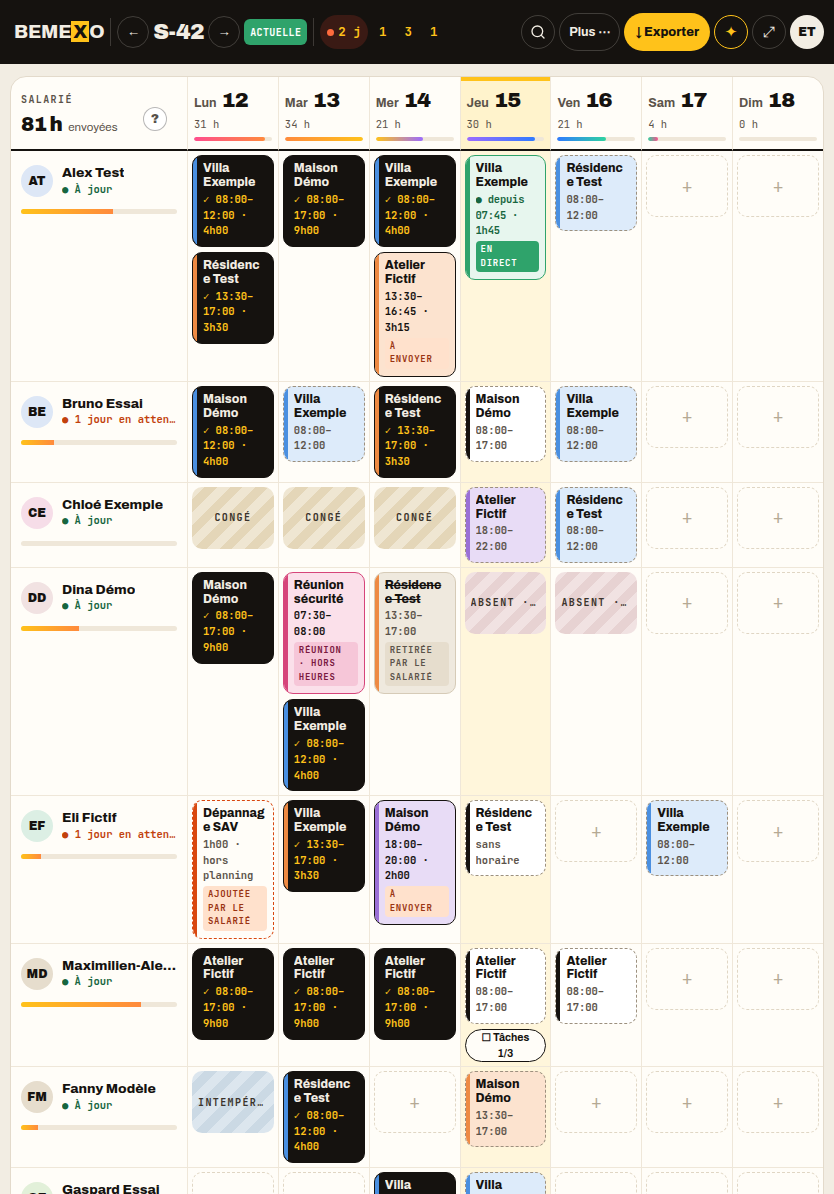
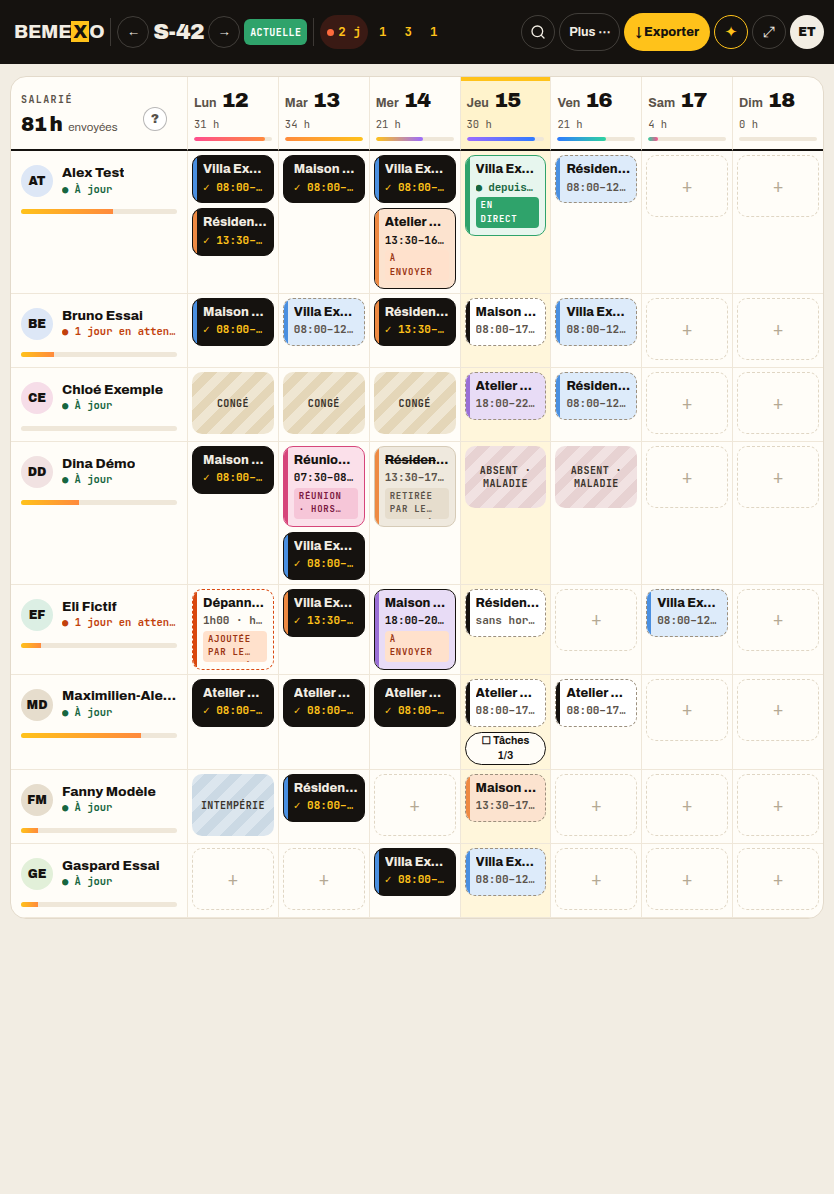
Planning 2a, tablette (768–1 023 px) : plus aucun mot coupé en plein milieu
Comme à 1 024 px : titre et horaire des cartes sur une ligne coupée par « … », étiquettes sur deux
lignes au plus (coupées entre deux mots), libellés d'absence à la ligne entre deux mots seulement.
Nouveau contrôle « aucun mot coupé en plein milieu à 834 » (planning-2b-controles 62/62) ;
2a-tablette-834.png refaite ; planning-2a-controles 39/39.

Claude-Session: https://claude.ai/code/session_01UjXHEzdjb9t6bteo8SrVhu

diff --git a/components/design/bureau/planning-v2.css b/components/design/bureau/planning-v2.css
@@ -491,10 +491,11 @@ button.dzp-b-actuelle { background: transparent; border: 1px solid #FFC21A; colo
   .dzp-jour__h { margin-left: 0; flex-basis: 100%; }
   .dzp-td { padding: 4px; }
   .dzp-carte { padding: 6px 6px 7px 10px; }
-  .dzp-carte__titre, .dzp-carte__heure { white-space: normal; overflow-wrap: break-word; hyphens: auto; }
-  .dzp-carte__titre { font-size: 12px; }
-  .dzp-carte__heure { font-size: 10.5px; }
-  .dzp-carte__tag { white-space: normal; }
+  /* Comme à 1 024 px : titre et horaire sur UNE ligne coupée par « … » ; étiquettes sur deux lignes au plus, coupées entre deux mots seulement. */
+  .dzp-carte__tag { white-space: normal; overflow-wrap: normal; word-break: normal; display: -webkit-box; -webkit-box-orient: vertical; -webkit-line-clamp: 2; line-clamp: 2; }
+  /* Absences : le libellé passe à la ligne entre deux mots (« ABSENT · / MALADIE »), jamais au milieu d'un mot ; lettres moins espacées pour que « INTEMPÉRIE » tienne. */
+  .dzp-absence { padding: 6px 4px; }
+  .dzp-absence b { white-space: normal; overflow: visible; text-overflow: clip; letter-spacing: .04em; line-height: 1.3; }
 }
 
 /* ── Menu ☰ du téléphone, ajouts de la planche 2b : semaine, recherche, chiffres (tuiles du 1a), pièces jointes ── */

diff --git a/docs/REPRISE.md b/docs/REPRISE.md
@@ -40,4 +40,4 @@
 - **Bureau LOT 2 « Heures et paie » (17 oct. 2026, PR brouillon `claude/bureau-lot2-heures-paie`, rien de déployé, aucune migration)** : feuille d'heures, corrections tracées, renvoi, relance, export paie (menu, alerte avant verrou), clôture du mois, congés, onglets de la fiche, en variante v2 derrière `?ui=2` (aperçus et localhost seulement ; `lib/use-bureau-ui2.ts`, `BUREAU_UI2_PAR_DEFAUT = false`, `?ui=1` l'éteint). Vues en différé dans `components/design/bureau/` (`feuille-heures-v2`, `exporter-v2`, `verrou-v2`, `conges-v2`, `onglets-fiche-v2`, `heures-fenetre`, CSS `heures-v2.css`), logique v1 inchangée (props passées par worker-detail, leave-admin-dialog, export-verrou-dialog, admin-planning : 4 petits blocs à relire à la fusion avec le lot 1). Sans drapeau : 25 scripts rejoués identiques à la base. Avec `?ui=2` : 12 copies `ui2b-*` (`node scripts/tests/copies-ui2-bureau.mjs`) aux mêmes comptes que la v1 ; fidélité `node scripts/tests/fidelite-bureau-heures.mjs` 200 ✅ / 0 ❌, 26 images `captures-bureau-heures/`. `/admin` 361 kB (max 363), CSS inchangé, aucune requête de plus. Registre régénéré (`clics.snapshot` 645 gestionnaires / 80 fichiers), `guideForPrompt` bureau SHA `5766f6e9…3198` intact ; textes de guides v2 prêts, ÉTEINTS (`admin-tours-ui2.ts`, `guides-bureau-heures-v2.md`, 2 ancres à poser). **Écarts à la planche (code absent, rien inventé)** : e-mail de relance HP11, « Corriger sans prévenir », choix payé/non payé par trajet, liste des jours en brouillon à la clôture, « Clôturé par », Annuler la clôture, lignes PRÉVUE / EN DIRECT, nom du cabinet ; toasts HP23–27 restent Sonner ; l'onglet « Gérer » garde l'aspect v1 (lot 3). Détail : `baseline-scripts.md` (« Après le lot 2 du BUREAU »).
 - **Retouches d'arbitrage du salarié (17 oct. 2026, 6 points d'Ergun)** : (1) Semaine et Mois ont la bande des 7 jours dans l'en-tête sombre, comme la Journée ; (2) cartes jour blanches avec bordure gauche de 4 px par état (vert envoyé, rouge à envoyer, violet prévu, gris absence, jaune aujourd'hui) et total d'heures en gras à droite (`data-carte`, `vues-v2.css`) ; (3) quatre couleurs vives en plus du noir ; (4) « Historique » sort du menu du compte et devient un lien en bas du Mois (`data-guide="menu.historique"`, guide v2 mis à jour, `avant-3b1.snapshot.json` régénéré une 4e fois : seuls `guides.salarie`, `global`, 55 consignes et `_aide` bougent) ; (5) ✦ jaune FLOTTANT en bas à droite au-dessus de la barre, sur Journée, Semaine et Mois (plus dans l'en-tête) ; (6) le Mois reprend les couleurs d'état. Preuves : fidélité 520 ✅ / 0 ❌, équilibre 73 ✅, coque 31 ✅, `test:registre` 143, `test:guides` 17 ; captures `docs/design-brief/integration/captures-arbitrage/`. Échecs déjà présents sur main sans ces retouches (identiques mesurés) : salarie-lot9 (4), salarie-lot10 (1), requetes-lot29 (2), guides-lot7 (timeout assistant) — tests écrits pour l'ancienne interface, à rejouer via `ui2-copies.mjs`. `/poseur` 280,0 kB pour un plafond de 280 : plus aucune marge.
 - **Planning du BUREAU, planche d'essai 2a (17 oct. 2026, PR brouillon `claude/planning-2a`, rien de déployé, ÉTEINT : `?ui=2`)** : la direction **v2b « Couleur » (#227) est REFUSÉE** et annulée (revert de `8a35ed7`) ; **la 2a est retenue** (référence unique : `docs/design-brief/designer-essai/Essai nouveau design Bemexo.dc.html`, maquette 2a, réglages par défaut), posée sur la base du lot 1. **Étape ORDINATEUR FAITE** : barre noire unique de 64 px (logo, semaine, compteurs masqués à 0, loupe, Clients, Salariés, Sélectionner, Plus ⋯, ↓ Exporter, ✦, ⤢, avatar), tout le reste dans « Plus ⋯ », menu des chiffres (tuiles du 1a) au clic sur un compteur, plein écran (⤢ ou F, Échap), recherche, grille compacte. `admin-planning.tsx` non modifié ; sans drapeau `/admin` identique (7/7). Preuves et écarts : `baseline-scripts.md` (« Après le planning 2a »), `captures-planning-2a/`, `node scripts/tests/planning-2a-controles.mjs` (39/39). **Reste : téléphone et tablette (étape suivante)**, puis guides v2 du planning à revoir (ils parlent encore de la barre de semaine du lot 1, éteints) et la bascule.
-- **Planning 2a, étape TÉLÉPHONE + TABLETTE FAITE (17 oct. 2026, même PR #228, ÉTEINT : `?ui=2`)** : téléphone sous 768 px = planche 2b (en-tête sombre, bascule Jour / Semaine, cartes par salarié, mosaïque), menu ☰ qui reprend TOUT ce que la barre et « Plus ⋯ » offrent (semaine, recherche, chiffres et tuiles, Imprimer, Pièces jointes…), fiche en feuille du bas 2c à 1 024 px et moins (92 %), tablette 834 / 1024 sur la grille de l'ordinateur sans défilement horizontal. `admin-planning.tsx` non modifié ; sans drapeau `/admin` identique (7/7). Preuves et écarts : `baseline-scripts.md` (« Après l'étape TÉLÉPHONE + TABLETTE »), `node scripts/tests/planning-2b-controles.mjs` (61/61), `captures-planning-2a/` (compare-2b-telephone, compare-2c-feuille…). Budgets inchangés (`/admin` 362). **Reste** : guides v2 du planning à revoir (éteints) ; seuil « petit écran » de 1 024 px dans `admin-planning.tsx` (guides, Imprimer) à aligner sur 768 au moment de la bascule ; bascule.
+- **Planning 2a, étape TÉLÉPHONE + TABLETTE FAITE (17 oct. 2026, même PR #228, ÉTEINT : `?ui=2`)** : téléphone sous 768 px = planche 2b (en-tête sombre, bascule Jour / Semaine, cartes par salarié, mosaïque), menu ☰ qui reprend TOUT ce que la barre et « Plus ⋯ » offrent (semaine, recherche, chiffres et tuiles, Imprimer, Pièces jointes…), fiche en feuille du bas 2c à 1 024 px et moins (92 %), tablette 834 / 1024 sur la grille de l'ordinateur sans défilement horizontal. `admin-planning.tsx` non modifié ; sans drapeau `/admin` identique (7/7). Preuves et écarts : `baseline-scripts.md` (« Après l'étape TÉLÉPHONE + TABLETTE »), `node scripts/tests/planning-2b-controles.mjs` (62/62), `captures-planning-2a/` (compare-2b-telephone, compare-2c-feuille…). Budgets inchangés (`/admin` 362). **Reste** : guides v2 du planning à revoir (éteints) ; seuil « petit écran » de 1 024 px dans `admin-planning.tsx` (guides, Imprimer) à aligner sur 768 au moment de la bascule ; bascule.

diff --git a/docs/design-brief/integration/baseline-scripts.md b/docs/design-brief/integration/baseline-scripts.md
@@ -389,7 +389,7 @@ Référence : la planche `Essai nouveau design Bemexo.dc.html`, TOUR 2, 2b « Bu
 
 | Preuve | Résultat |
 |---|---|
-| `node scripts/tests/planning-2b-controles.mjs out docs/design-brief/integration/captures-planning-2a 4432` (`PLANCHE_DIR` = sortie de `--telephone`) | **61 ✅ / 0 ❌** : 390 px sans défilement horizontal, cibles ≥ 44 × 44 px (Jour, menu, feuille ; zone de toucher prolongée par `::after` pour la bascule de 38 px dessinés), en-tête, bande, cartes et couleurs, bascule et mosaïque, colonne → jour, ☰ couvre les 21 fonctions relevées à l'ordinateur (barre, « Plus ⋯ », compte), tuiles, pièces, semaine, recherche, Imprimer, Sélectionner ; feuille 2c à 92 % à 390, 834 et 1 024 px, fermée par ✕, fond et Échap ; panneau latéral intact à 1 440 ; 834 × 1194 et 1024 × 768 sans défilement horizontal |
+| `node scripts/tests/planning-2b-controles.mjs out docs/design-brief/integration/captures-planning-2a 4432` (`PLANCHE_DIR` = sortie de `--telephone`) | **62 ✅ / 0 ❌** : 390 px sans défilement horizontal, cibles ≥ 44 × 44 px (Jour, menu, feuille ; zone de toucher prolongée par `::after` pour la bascule de 38 px dessinés), en-tête, bande, cartes et couleurs, bascule et mosaïque, colonne → jour, ☰ couvre les 21 fonctions relevées à l'ordinateur (barre, « Plus ⋯ », compte), tuiles, pièces, semaine, recherche, Imprimer, Sélectionner ; feuille 2c à 92 % à 390, 834 et 1 024 px, fermée par ✕, fond et Échap ; panneau latéral intact à 1 440 ; 834 × 1194 et 1024 × 768 sans défilement horizontal |
 | `planning-2a-controles.mjs` (ordinateur) | **39 / 39** (le contrôle « 834 » attend désormais la grille) |
 | `bureau-v1-identique.mjs` (sans `?ui=2`, contre le build de la base) | **7 / 7 identiques** |
 | Copies `ui2b-` du planning (`ui2-bureau-copies.mjs`) | `planning-lot2` 86/0, `absences-lot2` 25/0, `versions-lot8` 144/0, `requetes-lot29` 79/2 (les 2 ❌ de la base, partie salarié), `traces-lot3` s'arrête au même endroit que l'original (partie salarié) : **inchangés** |
@@ -405,6 +405,6 @@ Images (`captures-planning-2a/`) : `compare-2b-telephone.png`, `compare-2c-feuil
 - Cartes : teintes d'avatar par hachage de l'identifiant (comme la grille 2a), « N J EN ATTENTE » compté par la règle du code (jours planifiés sans heures envoyées), donc Alex « À JOUR » là où la planche compte son brouillon ; ni étiquettes, ni pièces, ni « CHEF » (la planche n'en montre pas) ; « + Tâche » retiré (comme à l'ordinateur : « Ajouter une tâche à ce créneau » dans la fiche) ; astuce « Copier une case » gardée en tête de liste tant qu'elle n'est pas « Compris ».
 - Mosaïque : colonnes de ~35 px de large (7 colonnes à 390 px) : sous 44 px de large, la colonne entière (en-tête + cases, 64 px de haut chacune) est la cible.
 - Feuille 2c : 92 % (le texte de la planche) et non 88 % (son dessin) ; l'Horaire prévu garde la liste « choisir » (chevron), l'« i » d'aide et « Effacer » ; « Documents (2) » garde le nombre ; « Ajouter une tâche » et « Supprimer » (de la 2a) en plus de Copier / Dupliquer ; les cas « retirée », « brouillon vide », réserve, note du salarié restent dits sous le bloc des heures.
-- Tablette 834 : pas de maquette dans la planche ; grille de l'ordinateur, textes des cartes sur plusieurs lignes au lieu d'être coupés (un mot plus long que la colonne se coupe : « Résidenc / e Test »), charge du jour sous le numéro.
+- Tablette 834 : pas de maquette dans la planche ; grille de l'ordinateur comme à 1 024 px : titre et horaire sur une ligne coupée par « … », étiquettes sur deux lignes au plus (coupées entre deux mots), absences « ABSENT · / MALADIE » à la ligne entre deux mots, charge du jour sous le numéro. Contrôle « aucun mot coupé en plein milieu à 834 ».
 
 **Choix tranchés** : seuil téléphone à 768 px (la tablette garde la grille, comme demandé) ; feuille 2c jusqu'à 1 024 px inclus (iPad paysage) ; plein écran ⤢ absent au téléphone (l'écran montre déjà le planning seul) ; Imprimer au téléphone ouvre le menu d'impression d'avant en bas de l'écran ; la recherche se tape dans ☰ et la liste dit « N salarié(s) pour « … » ». Limites connues, côté `admin-planning.tsx` non modifié : les guides pas à pas (éteints en v2) et la période par défaut d'Imprimer considèrent encore « petit écran » sous 1 024 px.
